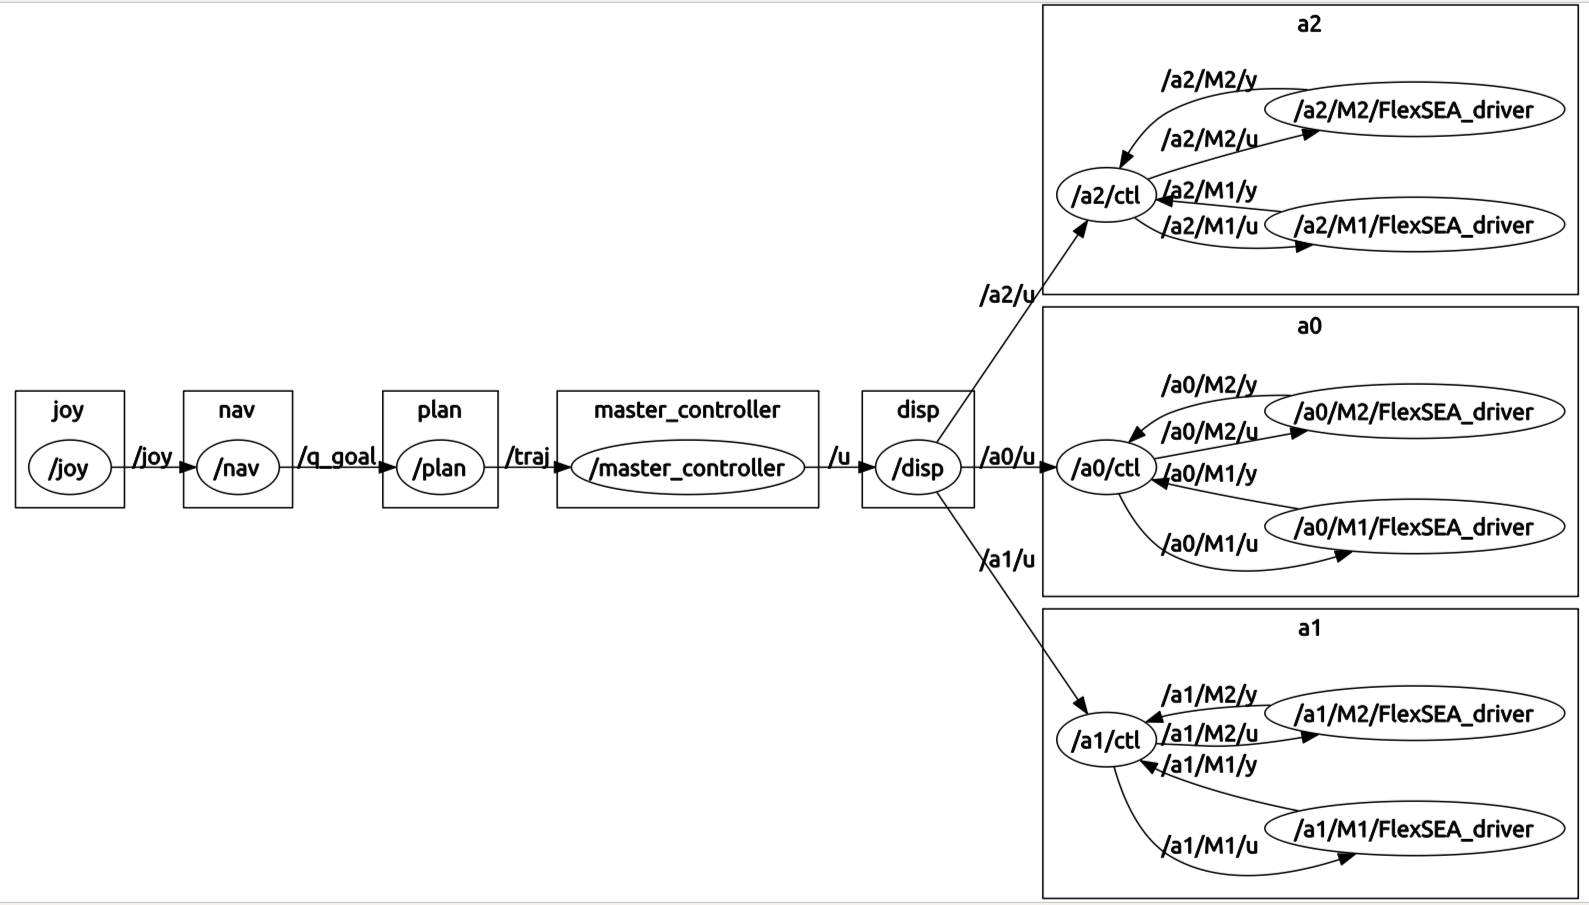
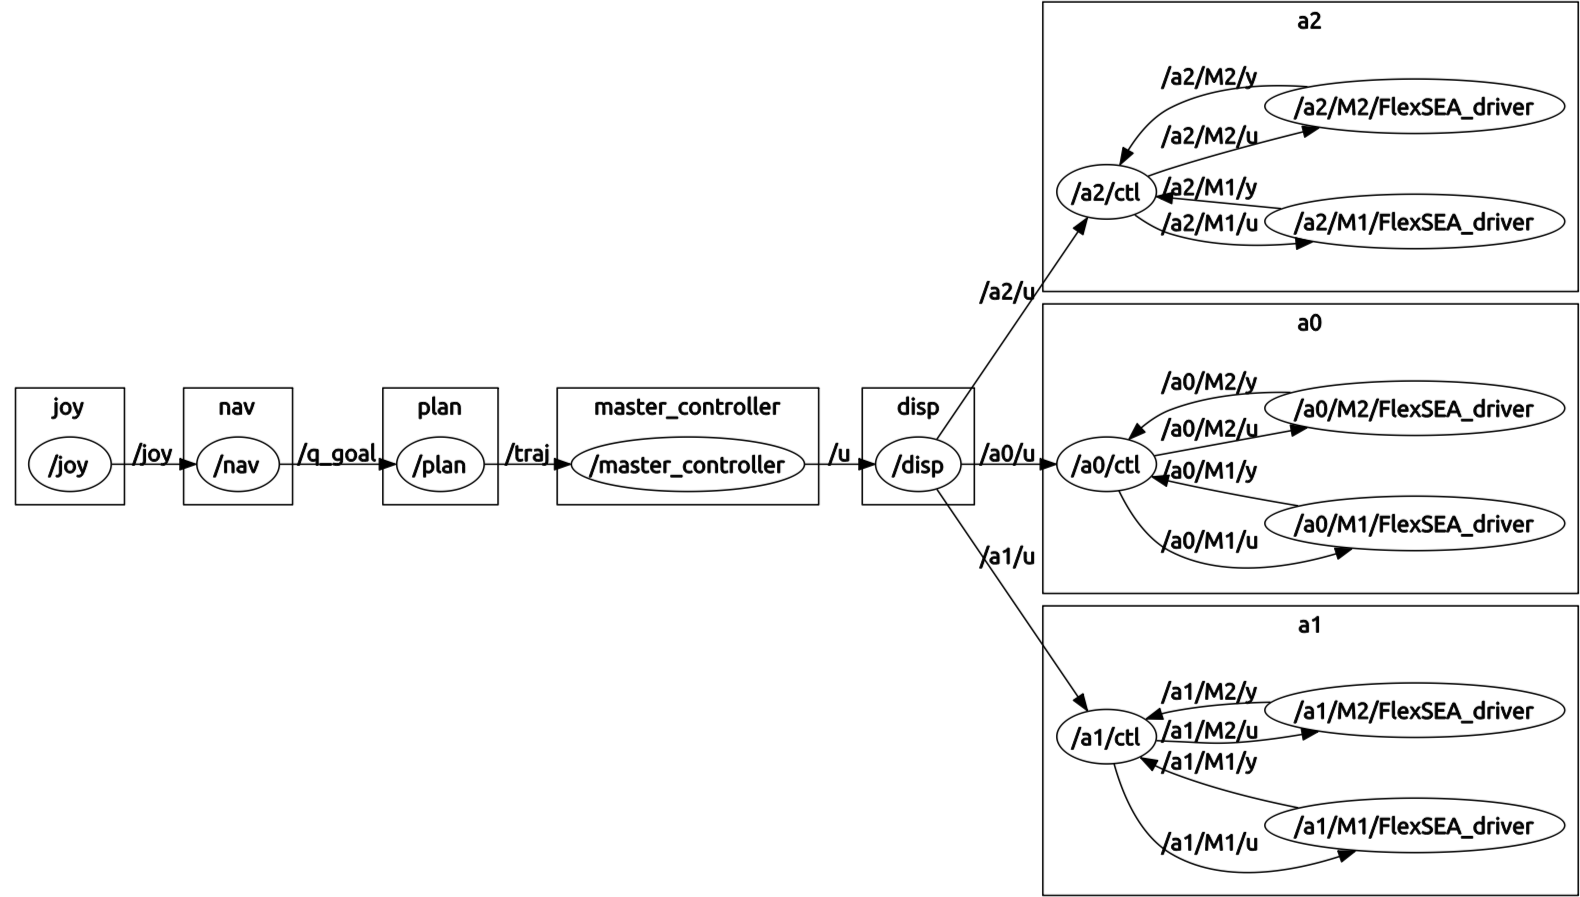
issues recommandations

Changed region(s): [[0.031, 0.0, 1.0, 1.0]]

diff --git a/src/exp.tex b/src/exp.tex
@@ -187,11 +187,11 @@ It is interesting to note that any commercially available linear actuator matchi
 \subsection{Arm Design}
 \label{sec:DSDMArm}
 
-The DSDM-arm is built using very lightweight square tubing of carbon fiber. 3D printed plastic (ABS) parts are designed to make the junction between revolute joint assembly and tubing. The revolute joint assembles are joined to printed parts with a bolt pattern, and printed parts are simply clamped of the square tubes. This allows for very quick reconfiguration of the arm, tubes of different lengths can be used and revolute joints can be mounted at different angle on the tubes. The carbon fiber tube between the shoulder and the elbow has a cross section of 2"x2" while the tubes linking elbow-wirst and wrist-end-effector have a 1"x1" cross section. 
+The DSDM-arm is built using very lightweight square tubing of carbon fiber. 3D printed plastic (ABS) parts are designed to make the junction between revolute joint assemblies and the tubes. The revolute joint assemblies are joined to printed parts with a bolt pattern, and printed parts are simply clamped on the square tubes. This allows for very quick reconfiguration of the arm, tubes of different lengths can be used and revolute joints can be mounted at different angles on the tubes. The carbon fiber tube between the shoulder and the elbow has a cross section of 2"x2" while the tubes linking elbow-wirst and wrist-end-effector have a 1"x1" cross section. 
 
 \subsubsection{Shoulder 4-bar mechanism}
 
-A 4-bar mechanism is designed to transmit the linear actuator motion to the revolute shoulder joint, see Fig. \ref{fig:4bar}. This combination of ballscrew with a 4-bar mechanism allows for very large mechanical advantage to be achieved, with very good transmission efficiency, compared to using only gearing.  
+A 4-bar mechanism is designed to transmit the linear actuator motion to the revolute shoulder joint, see Fig. \ref{fig:4bar}. This combination of ballscrew with a 4-bar mechanism allows for a very large mechanical advantage to be achieved, and with very good transmission efficiency.  
 
 \begin{figure}[htbp]
 	\centering
@@ -200,7 +200,7 @@ A 4-bar mechanism is designed to transmit the linear actuator motion to the revo
 	\label{fig:4bar}
 \end{figure}
 
-The geometry of the 4-bar mechanism has been designed to achieve the desired range of angles for the shoulder, and keeping the kinematic relationship, between linear displacement and shoulder angle, as linear as possible. Fig. \ref{fig:shoulder_kinematic} illustrate the kinematic relationship of the designed mechanism. Note that in the software controlling the arm, this kinematic relationship is computed explicitly for the inverse-kinematic but the forward kinematic is approximated with a numerical interpolation (computing the shoulder position based on encoder measurement of the linear actuator). The shoulder forward kinematic as a unique solution for the range of physically possible value with prototype.
+The geometry of the 4-bar mechanism has been designed to achieve the desired range of angles for the shoulder, and keeping the kinematic relationship, between linear displacement and shoulder angle, as linear as possible. Fig. \ref{fig:shoulder_kinematic} illustrates the kinematic relationship of the designed mechanism. Note that in the software controlling the arm, this kinematic relationship is computed explicitly for the inverse-kinematic but the forward kinematic is approximated with a numerical interpolation (when computing the shoulder position based on encoder measurements of the linear actuator). The shoulder forward kinematic as a unique solution for the range of physically possible linear actuator displacement.
 
 \begin{figure}[htbp]
 	\centering
@@ -209,7 +209,12 @@ The geometry of the 4-bar mechanism has been designed to achieve the desired ran
 	\label{fig:shoulder_kinematic}
 \end{figure}
 
-The mechanical advantage between linear motion and shoulder rotation is thus on average about 360 deg/m, or a ratio of 50:1 from ballscrew rotation to shoulder rotation. This correspond to average total reduction ratios $R_1 = 200 $ and $R_2 = 3600 $. Surprisingly, the shoulder joint mechanism is backdrivable, even during high-force mode. This illustrates the efficiency of ballscrew-based reduction mechanism. During high-speed mode, a human can easily move the first joint of the robot with almost no resistance. During high-force mode, the reflected inertia is incredibly large, but a human can still make the shoulder joint move very slowly by pushing hard (with open circuit for the motor). However, if there is a small damping force at M2 motor shaft (by closing the motor electric circuit for instance), than back-driving the system is almost impossible.   
+The mechanical advantage between linear motion and shoulder rotation is thus on average about 360 deg/m, or a ratio of 50:1 from ballscrew rotation to shoulder rotation. This correspond to average total reduction ratios of $R_1 = 200 $ and $R_2 = 3600 $. Surprisingly, the shoulder joint mechanism is backdrivable, even during high-force mode. This illustrates the efficiency of ballscrew-based reduction mechanisms. During high-speed mode, a human can easily move the first joint of the robot with almost no resistance. During high-force mode, the reflected inertia is very large, but a human can still make the shoulder joint move very slowly by pushing hard (with open circuit for the motor). However, if there is a small damping force at M2 motor shaft (by closing the motor electric circuit for instance), than back-driving the system is almost impossible.  
+
+
+\subsubsection{Arm Specifications} 
+
+Table \ref{tab:robotspec2}, shows the DSDM arm joint specifications transposed to end-effector space where they are more meaningful. For doing so, a configuration where all link are aligned and tube lengths of 0.5 m, 0.25 m and 0.25 m is assumed, see Fig. \ref{fig:arm_config}. Then maximum force, maximum speed and impedance at the end-point due to each actuator taken independently is computed. All in all, with the designed reduction ratios, with high-speed mode the end-point inertia due to reflected motor inertia is negligible and speed can reach multiple meter per second. With the high-force mode, the end-point force capability reach 50 N (limited by the wrist) even in this most disadvantageous fully extended configuration, with the end-effector at arms' length.  
 
 \begin{table}[htbp]
 	\centering
@@ -229,15 +234,20 @@ The mechanical advantage between linear motion and shoulder rotation is thus on 
 	\label{tab:robotspec}
 \end{table}
 
-Table \ref{tab:robotspec2}, shows the DSDM arm joint specifications transposed to end-effector space where they are more meaningful. For doing so, a configuration where all link are aligned and tube lengths are ( 0.5 m , 0.25 m and 0.25 m ) is assumed, see Fig. XXX TODO. All in all, with the designed reduction ratios, with high-speed mode the end-point inertia due to reflected motor inertia is negligible and speed can reach multiple meter per second. With the high-force mode, the end-point force capability reach 50 N even in this most disadvantageous fully extended configuration, with the end-effector at arms' length.  
-
-\begin{table}[htbp]
+\begin{figure}[htb]
 	\centering
-	\caption{DSDM-Arm End-point Specifications with Configuration A}
+		\includegraphics[width=0.65\textwidth]{arm_config.png}
+	\caption{Arm configuration used to compute end-point specification at Table \ref{tab:robotspec2}}
+	\label{fig:arm_config}
+\end{figure}
+
+\begin{table}[H]
+	\centering
+	\caption{DSDM-Arm End-point Specifications with Configuration of Fig. \ref{fig:arm_config}}
 		\begin{tabular}{ c c c c c c c }
 			\hline
 			   & \multicolumn{2}{c}{Max. Velocity} & \multicolumn{2}{c}{Max. Force} & \multicolumn{2}{c}{Reflected Mass}\\
-			   & \multicolumn{2}{c}{m/sec} & \multicolumn{2}{c}{N} & \multicolumn{2}{c}{kg } \\
+			   & \multicolumn{2}{c}{m/s} & \multicolumn{2}{c}{N} & \multicolumn{2}{c}{kg } \\
 				\hline
 			  & HF & HS & HF & HS & HF & HS \\
 			\hline
@@ -251,52 +261,100 @@ Table \ref{tab:robotspec2}, shows the DSDM arm joint specifications transposed t
 
 Note that the DSDM-Arm is strong enough to sustain its own weight in all configurations when using HF modes. However, this is not the case when using the actuators in HS mode. 
 
+
+\subsection{Limitations and recommendation for improvements} 
+
+The main limitations of the DSDM-Arm are due to 1) backlash in the actuator gearing and 2) compliance in the structure. For the ease of implementation, the custom built actuator transmissions use only standard spur gears. The flaw of this design is that the output has a backlash of a few degrees. While it was not a critical issue for demonstrating the proposed control scheme of this thesis, it would be problematic for using the DSDM-Arm platform in task involving precise positioning of the end-effector. The second issue is the arm compliance due to 3D printed plastic parts used to connect the joints to the carbon fiber tubes. 
+
+Regarding the backlash in the gearing, this could be avoided by spending more engineering effort to make thorough precision gear-box design. For the compliance in the structure, using metal parts could solve the issue but would lead to a heavier robotic system and also increase design cycle time. Instead, it would be interesting to use 3D printed parts reinforced with carbon fiber, such as the \textit{markforged} technology. 
+
+
+
+%%%%%%%%%%%%%%%%%%%%%%%%%%%%%%%%%%%%%%%%%%%%%%%%%%%%%%%%%%%%%%%%%%%%%%%%%%%%%%%%%%%%%%%
+
+\newpage
+\newpage
+
 \section{Control and Software Architecture}
 \label{sec:ControlSoftwareArchitecture}
 
-\subsection{Architecture}
+This section discuss implementation of the control algorithms for the DSDM-Arm. 
+
+\subsection{Global Architecture}
+
+Fig. \ref{fig:archi_diagram} illustrates the hierarchical control architecture for the DSDM-Arm. At the very high-level an operator gives commands to the system using a wireless \textit{xbox-360} controller, and the very low level pwm signal are sent to motor power-electronic circuits. The physical platforms include a desktop computer running Ubuntu 14.04 and ROS \cite{quigley_ros:_2009}, and multiple micro-controllers. 
 
 \begin{figure}[H]
 	\centering
 		\includegraphics[width=0.95\textwidth]{ros_diagram.png}
 	\caption{Control Software Architecture}
-	\label{fig:ros_diagram}
+	\label{fig:archi_diagram}
 \end{figure}
 
+The high-level motion planning algorithm, the centralized robot controller are running on the desktop. Each motor as its own micro-controller handling the low level current control loop. The plan for the DSDM controllers, was to decentralize them on one individual micro-controllers for each actuators. However, at the time of writing these lines, all three DSDM controllers still run on the desktop, which communicates directly with the six motor drivers. Communication between the desktop and motor micro-controllers is done over USB connections.
 
-The control algorithms are implemented on a computer using ROS \cite{quigley_ros:_2009}, the trajectory generation algorithm and the R* Computed Torque controller are written in \textit{Python}. The computer is communicating over USB with open-source \textit{Flexsea} motor-drivers that handle the low-level current loops. The trajectory is generated offline in advance and loaded in memory upon initialization. The main R* control loop is running at a 500 Hz sampling rate. The low-level actuator controllers, receiving the torque and gear-ratio set-points, communicating with both motor drivers and handling the gear-shifting process (see Fig. \ref{fig:control_achitecture}), are ... TODO
+\subsection{ROS Architecture}
 
-%also implemented in \textit{Python} and use the algorithm described in \cite{girard_two-speed_2015}. Transition from one gear-ratio to another are found to be consistently under 50 ms.
+Fig. \ref{fig:ros_3dsdm} and \ref{fig:ros_dsdm} illustrates the software architecture based in ROS running on the desktop, those figures were generated directly from ROS using the \textit{rqt\_graph} command. Each ellipse, nodes using the ROS nomenclature, represent an independent program, and arrows represent communication pipelines in between those programs, topics using the ROS nomenclature. All programs were written in \textit{python} with the exception of the FlexSEA drivers, which handle the communication with motor micro-controllers, that are written in \textit{C++}.
 
-\begin{figure}[H]
+\begin{figure}[htpb]
 	\centering
 		\includegraphics[width=0.95\textwidth]{ros_graph_3_dsdm.png}
-	\caption{ROS architecture for controlling the full robot}
+	\caption{ROS architecture for the full robot (feedback connections are omitted)}
 	\label{fig:ros_3dsdm}
 \end{figure}
 
-
-\begin{figure}[H]
+\begin{figure}[htpb]
 	\centering
-		\includegraphics[width=0.95\textwidth]{ros_graph_single_dsdm.png}
+		\includegraphics[width=0.85\textwidth]{ros_graph_single_dsdm.png}
 	\caption{ROS architecture for controlling a single DSDM actuator directly}
 	\label{fig:ros_dsdm}
 \end{figure}
 
 
-\subsection{Motor drivers}
+\subsection{Navigation}
 
-The first generation NI Labview
+The \textit{joy} node read button states of the wireless controller, and broadcast them when button state changes. This program is available as an open-source ROS package. The \textit{nav} node then maps buttons to operating modes and desired goal. Multiple operating mode are available: sending a configuration goal to the planner, sending a reference directly to the robot controller, or manually controlling actuator torque and gear-ratios. 
 
-Scaling to 6 motors and ROS connectivity
+\subsection{Trajectory Planning}
 
-Second gen use micro-controllers \cite{duval_flexsea-execute:_2016} 
+The \textit{plan} node implement the RRT algorithm, as described in sec. \ref{sec:SamplingBasedTrajectoryPlanner}, to generate feasible trajectories. When receiving a new configuration goal, the node reads the current states, search for a feasible trajectory, and then broadcast the reference trajectory solution. Execution time of the search is stochastic, but is on the order of about 1 sec for 1-DoF systems and 10 sec for 2-DoF systems, with the custom implementation.
 
-\subsection{DSDM Actuator Controllers}
+\subsection{State feedback}
 
-
+The motor micro-controller driver nodes are program to continuously request and receive encoder measurements from motor at a rate of 500 Hz. The DSDM controller nodes then read those values, process them (kinematic relationship based on gear-ratios and filtered differentiation to compute velocities), and broadcast position and velocity of actuator output coordinates. The \textit{obs} node then read all actuator measurements and transpose them to joint coordinates. This step is trivial except for the 4-bar mechanism of the shoulder joint for which an interpolation function synthesized offline is used. 
 
 \subsection{Robot Controller}
 
-\subsection{Trajectory Planning }
+The master robot controller, loads a reference trajectory, and compute actuator torques and gear-ratio in closed-loop based on state feedback at the rate of 500 Hz. Multiple control policy from chapter \ref{sec:ControlAndPlanningOfRobotUsingVariableGearRatioActuators} are implemented:
+%
+\begin{itemize}
+	\item R* Computed Torque controller
+	\item R* Sliding Mode Controller
+	\item Rollout gear-selection
+\end{itemize}
+%
+For controlling only 1-DoF with two gear-ratio options, the Rollout gear-selection can run with a time horizon of 1-2 sec without slowing down the 500 Hz rate of the controller. However, when running the controller for 2-DoF with four gear-ratios options, the predictive simulations had to be simplified by used very rough integration steps for the scheme to run at 500 Hz. This should not be taken as a computational limit of the approach since here non-optimized inefficient \textit{python} code was used.
+
+\subsection{DSDM Actuator Controllers}
+
+DSDM controller are currently implemented as ROS nodes. They receive a torque and gear-ratio command from the master robot controller and send current set-point and brake state to the motor drivers, also at 500 Hz. DSDM controller nodes implement the control schemes described in Chapter \ref{sec:MultipleSpeedActuationTechnology}.
+
+\subsection{Motor drivers}
+
+The motor are controlled by open-source FlexSEA Execute motor board \cite{duval_flexsea-execute:_2016}. Those boards handle low-level high-bandwidth current loops and encoder signal processing. They also include a circuit to control a brake. All those functions are made available from the \textit{FlexSEA\_driver} nodes. Here the driver are set to request, receive and broadcast all sensor information from the Execute boards constantly at 500 Hz, which set the tempo for the feedback loops. 
+
+
+\subsection{Limitations and recommendation for improvements} 
+
+The initial control implementation for DSDM actuator prototypes used a \textit{NI compact rio} where feedback loops were running at very high-sampling rate on a FPGA and a real-time micro-controller \cite{girard_two-speed_2015}. This type of system is however poorly suited to scale to multi-DoF system, and implement complex planning algorithms. Hence, for the DSDM-Arm the architecture was design to easily scale to multiple DoF, make possible the use of high-level programming languages and facilitate connections with motion planning algorithms. However this came at the cost of loosing some control on the low-level loop implementations. The performance of actuator-level DSDM controller has decreased with the new implementation. To improve the system, DSDM controller should be implemented directly on micro-controllers, handling all actuator-level functions, at a higher sampling rate.
+
+One implementation issue that could also be improved, is that velocity measurement at low speeds in HS mode are very noisy because of resolution problems. An encoder with improved resolution, or direct velocity sensor should be used to improve the performance. 
+
+
+
+
+
+
+
 

diff --git a/src/controlplanning.tex b/src/controlplanning.tex
@@ -501,7 +501,7 @@ The proposed closed-loop controller, shown in Fig. \ref{fig:Rstar_block_big}, is
 Then given the actual position $\vec{q}$, actual speed $\dot{\vec{q}}$ and desired instantaneous acceleration $\ddot{\vec{q}}_r$ compute extrinsic and intrinsic forces for this dynamic state:
 %
 \begin{align}
-	&\vec{\tau}_{E} = H \vec{ \ddot{q}_r } + C\vec{ \dot{q} } + D \vec{ \dot{q} } + \vec{ g } \quad\quad
+	&\vec{\tau}_{E} = H \vec{ \ddot{q}_r } + C\vec{ \dot{q} } + D \vec{ \dot{q} } + \vec{ g } \quad
 	&\vec{\tau}_{I} = I \vec{ \ddot{q}_r } + B \vec{ \dot{q} } 
 \end{align}
 %
@@ -549,7 +549,7 @@ First, the following intermediary variables are computed:
 As for the R* Computed Torque, inverse dynamic for intrinsic and extrinsic forces are then computed for this dynamic state:
 %
 \begin{align}
-	&\vec{\tau}_{E} = H \vec{ \ddot{q}_r } + C\vec{ \dot{q} } + D \vec{ \dot{q} } + \vec{ g } \quad\quad
+	&\vec{\tau}_{E} = H \vec{ \ddot{q}_r } + C\vec{ \dot{q} } + D \vec{ \dot{q} } + \vec{ g } \quad
 	&\vec{\tau}_{I} = I \vec{ \ddot{q}_r } + B \vec{ \dot{q} } 
 \end{align}
 %
@@ -604,13 +604,14 @@ Rearranging the torque law gives:
 	+ R \tau_{I}(\overbrace{\ddot{q}_r - \eta sgn( s )}^{\ddot{q}_a} ,\dot{q})
 \end{align}
 %
-Minimizing torque computed with this laws over possible $R$ also have a enlightening analytical solution:
+Minimizing torque computed with this sliding mode control law over possible $R$, also have an enlightening analytical solution:
 %
 \begin{align}
 	R^{*} &= \operatornamewithlimits{argmin}\limits_{R} \left[ \tau^2 \right] = \sqrt{ \left | \frac{\tau_{E}(\ddot{q}_a,\dot{q},q) + | d |_{max} \, sgn( s ) }{\tau_{I}(\ddot{q}_a,\dot{q})} \right |   } 
 \label{eq:rstar_sliding}
 \end{align}
-Hence, if no disturbance is expected ($| d |_{max}=0$) then the solution is, as before, a compromise between extrinsic and intrinsic forces. However, knowledge of uncertainty in the form of disturbances bound modify the optimal gear-ratio solution. When large disturbances are expected ($| d |_{max}$ is large) the solution is biased toward larger gear-ratios, which is consistent with the sensitivity analysis that concluded that larger gear-ratio attenuate the effect of disturbances. All in all, minimizing torque computed with the sliding mode law, is a way to naturally improve the decision regarding the best gear-ratios, in function of some knowledge of the expected uncertainty.
+
+If no disturbance is expected ($| d |_{max}=0$) then the solution is, as before, a compromise between extrinsic and intrinsic forces. However, knowledge of uncertainty in the form of disturbances bound modify the optimal gear-ratio solution. When large disturbances are expected ($| d |_{max}$ is large) the solution is biased toward larger gear-ratios, which is consistent with the sensitivity analysis that concluded that larger gear-ratio attenuate the effect of disturbances. All in all, minimizing torque computed with the sliding mode law, is a way to naturally improve the decision regarding the best gear-ratios, in function of some knowledge of the expected uncertainty.
 %
 
 \subsection{Adaptation}
@@ -623,9 +624,9 @@ If the uncertainty is structured as unknown model parameters in the extrinsic dy
  \label{eq:adapt}
 \end{align}
 %
-If used in conjunction with the R* Computed Torque controller, decisions regarding the optimal gear-ratio would improve as adaptation converge. Note that correct gear-ratio decision depends of the correct estimation of extrinsic torque, not model parameters explicitly, which are harder to estimate since requiring sufficient excitation. 
+If used in conjunction with the R* Computed Torque controller, decisions regarding the optimal gear-ratio would improve as adaptation converge. Note that correct gear-ratio decision depends on the correct estimation of extrinsic torque, not model parameters explicitly, which are harder to estimate since requiring sufficient excitation. 
 
-If the adaptation is always aware of the selected gear-ratio, then traditional adaption scheme can be implemented. For instance, for 1-DoF robot with the following EoM:
+If the adaptation is always aware of the selected gear-ratio, then traditional adaption scheme can be implemented. For instance, for a 1-DoF robot with the following EoM:
 %
 \begin{align}
 	\left[ H + R^2 I \right] \ddot{q} + \left[ R^2 B \right] \dot{q} + \left[ mg \sin( q ) \right] = R \tau
@@ -774,7 +775,7 @@ If the policy for motor torque $\vec{\tau}_k(\vec{x})$ is substituted in the cos
 r_{ij} ( \vec{x} ) = 0
 \end{align}
 %
-If $r_{ij}>0$ then the decision is $k=i$, while if $r_{ij}<0$ the decision is $k=j$. With the computed torque as policy for motor torque, for a 1-DoF system, the decision boundary between $k=i$ and $k=j$ takes the form
+If $r_{ij}>0$ then the decision is $k=i$, while if $r_{ij}<0$ the decision is $k=j$. When using the R* Computed Torque controller for a 1-DoF system, the decision boundary between $k=i$ and $k=j$ takes the form
 %
 \begin{align}
 0 = r_{ij} ( \vec{x} )  = \left[ \frac{R_i^2-R_j^2}{\frac{1}{R_i^2}-\frac{1}{R_j^2}}\right] - \frac{\tau_E}{\tau_I}
@@ -1648,7 +1649,7 @@ Note that the discontinuous torque required to guarantee convergence despite dis
 
 \subsection{2-DoF Experiments}
 
-Fig. \ref{fig:exp_traj_2dof_x} and Fig. \ref{fig:exp_traj_2dof_u} show an experiment using 2-DoF, the wrist joint and the elbow joint of the DSDM-Arm. The goal is a fixed joint configuration, and the R* Sliding Mode controller including the Rollout gear-selection scheme are used. 
+Fig. \ref{fig:exp_traj_2dof_x} and Fig. \ref{fig:exp_traj_2dof_u} show an experiment using 2-DoF, the wrist joint and the elbow joint of the DSDM-Arm. The goal is a fixed joint configuration, and the R* Sliding Mode controller including the Rollout gear-selection scheme are used. Results shows success in tracking the goal for both DoF.
 
 %
 \begin{figure}[htp]
